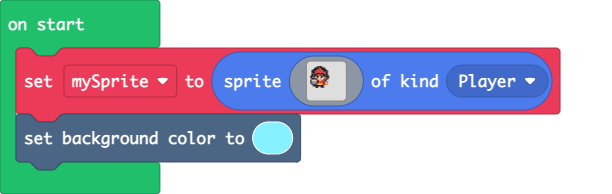
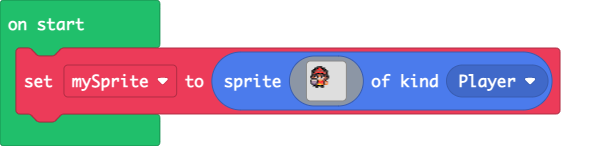
Update main.blocks, main.ts

diff --git a/main.ts b/main.ts
@@ -24,4 +24,3 @@ let mySprite = sprites.create(img`
     ........................
     ........................
     `, SpriteKind.Player)
-scene.setBackgroundColor(9)
